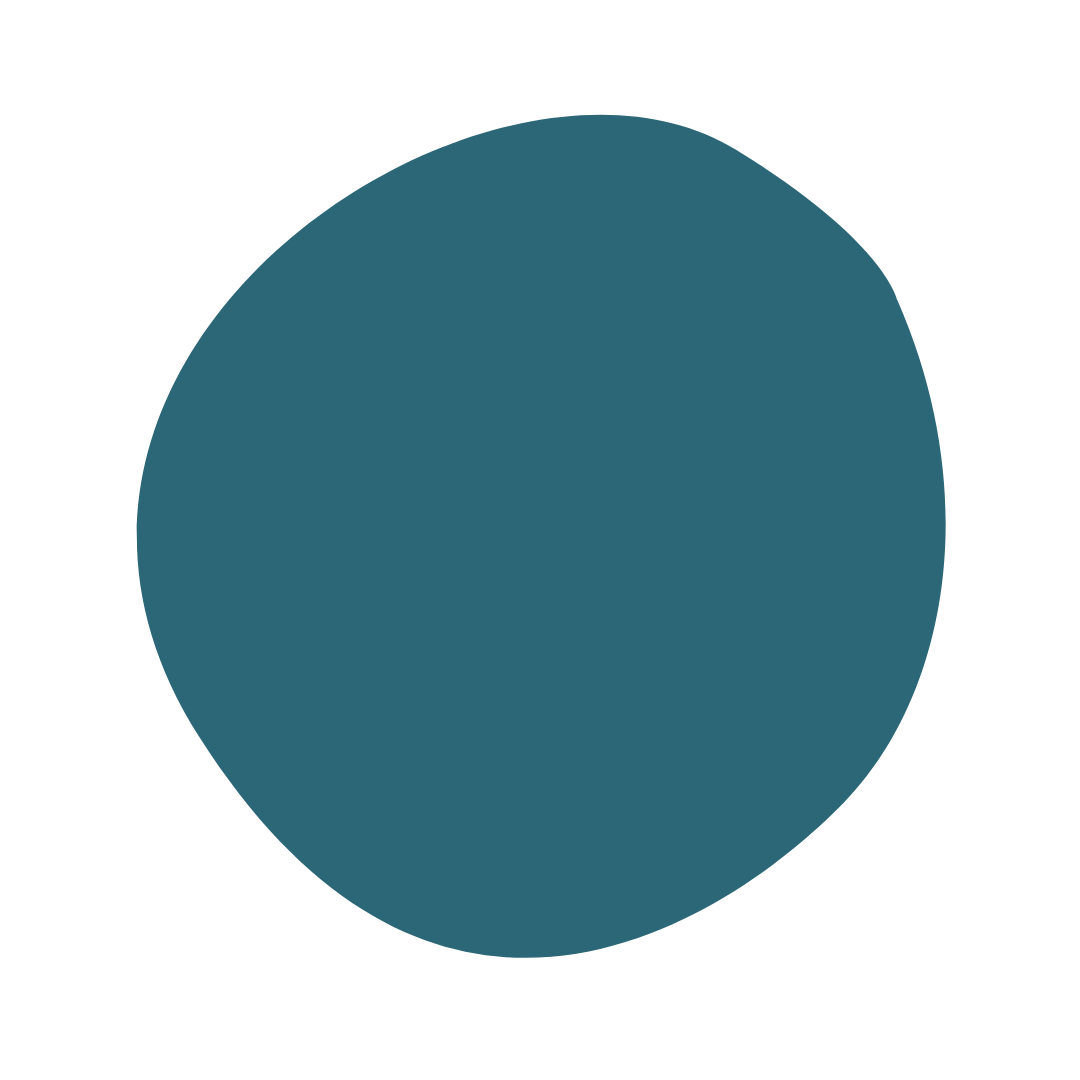
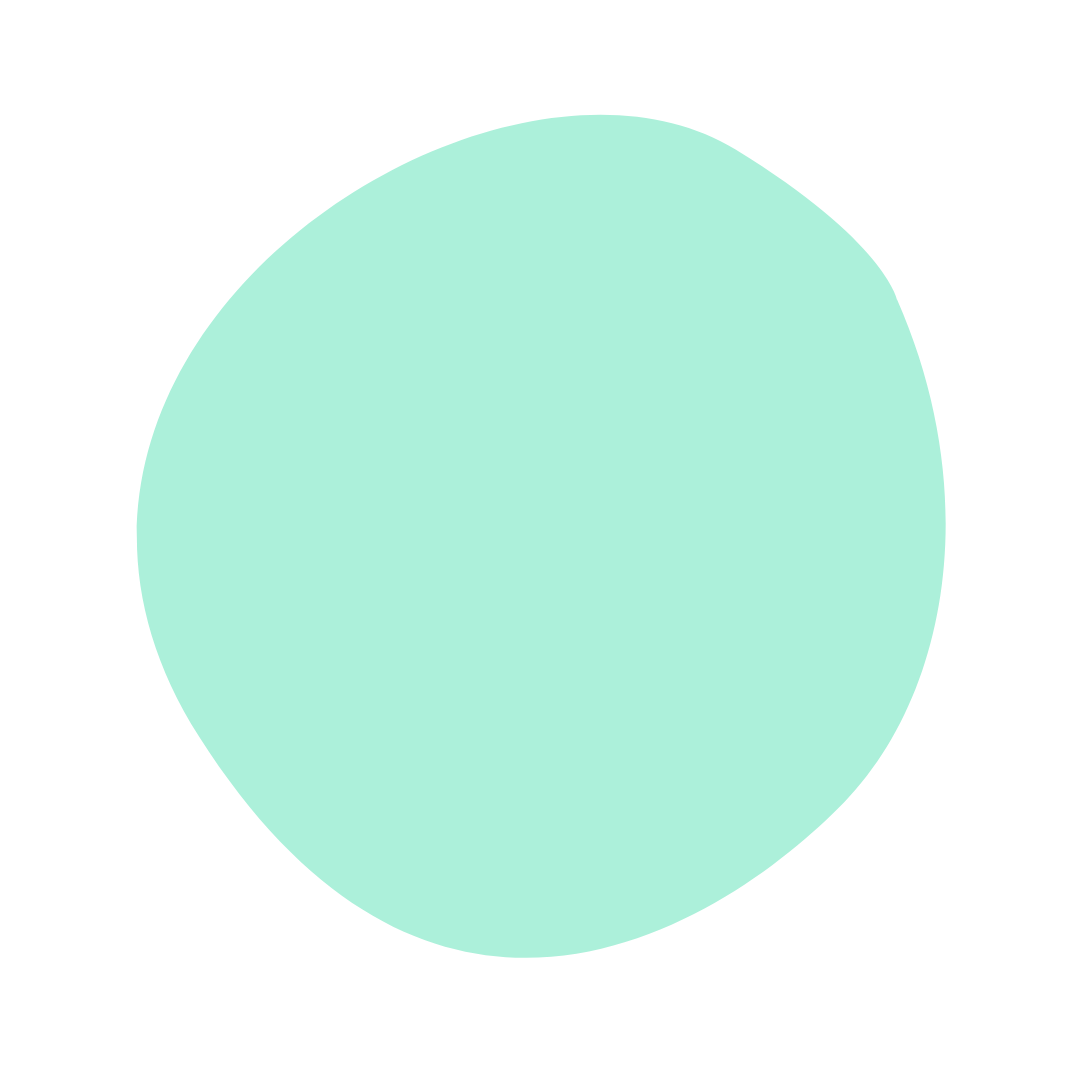
Finalized Cards Hover Animations

diff --git a/src/components/Steps.jsx b/src/components/Steps.jsx
@@ -11,6 +11,7 @@ export const Steps = () => {
 
                 <motion.div className="cards-container">
                     <motion.div className="card" whileHover={{ translateY: -10 }} transition={{ duration: 0.6 }}>
+                        <img src="/icon-background.png" alt="Icon Background"></img>
                         <i className="fas fa-cloud-arrow-up" style={{ fontSize: "5rem", color: "black" }}/>
                         <motion.h3>Upload or Take a Photo</motion.h3>
                         <motion.p>Choose an existing photo from your device or take a new one using your camera.</motion.p>
@@ -18,6 +19,7 @@ export const Steps = () => {
                         <motion.p>Make sure the skin area is clear, well-lit, and in focus.</motion.p>
                     </motion.div>
                     <motion.div className="card" whileHover={{ translateY: -10 }} transition={{ duration: 0.6 }}>
+                        <img src="/icon-background.png" alt="Icon Background"></img>
                         <i className="fas fa-brain" style={{ fontSize: "5rem", color: "black" }}/>
                         <motion.h3>AI Analysis</motion.h3>
                         <motion.p>Our AI model scans the image using advanced deep learning techniques.</motion.p>
@@ -25,6 +27,7 @@ export const Steps = () => {
                         <motion.p>It compares patterns against <item style={{fontWeight: 700}}>thousands</item> of known skin disease cases.</motion.p>
                     </motion.div>
                     <motion.div className="card" whileHover={{ translateY: -10 }} transition={{ duration: 0.6 }}>
+                        <img src="/icon-background.png" alt="Icon Background"></img>
                         <i className="fas fa-chart-line" style={{ fontSize: "5rem", color: "black" }}/>
                         <motion.h3>Get Results & Insights</motion.h3>
                         <motion.p>Know whether the condition looks benign <item style={{ fontWeight: 700, color: '#4CAF50'}}>safe</item> or potentially harmful.</motion.p>

diff --git a/src/App.css b/src/App.css
@@ -331,12 +331,61 @@ body {
   border-radius: 15px;
 
   display: flex;
+  position: relative;
   flex-direction: column;
+  overflow: hidden;
+
+  transition: all 0.3s ease;
+}
+
+.card::before {
+  content: "";
+  position: absolute;
+  top: 0;
+  right: 0;
+  bottom: 0;
+  left: -100%;
+  width: 100%;
+  
+  background: linear-gradient(45deg, transparent 0%, rgba(255, 255, 255, 0.15) 50%, transparent 100%);
+  transition: all 0.6s ease;
+  transition-delay: 0.2s;
+  z-index: 100;
+}
+
+.card:hover::before {
+  left: 100%;
+}
+
+.card:hover {
+  background-color: var(--primary-color);
+}
+
+.card:hover p {
+  color: var(--background);
+}
+
+.card:hover h3 {
+  color: var(--accent-color);
+  text-decoration-color: var(--secondary-color);
+}
+
+.card img {
+  position: absolute;
+  display: flex;
+
+  align-self: center;
+
+  width: auto;
+  height: 11rem;
+  z-index: 1;
 }
 
 .card i {
   align-self: center;
-  margin: 2.5rem 0;
+  margin-top: 2.5rem;
+  margin-bottom: 3rem;
+  z-index: 10;
 }
 
 .card h3 {
